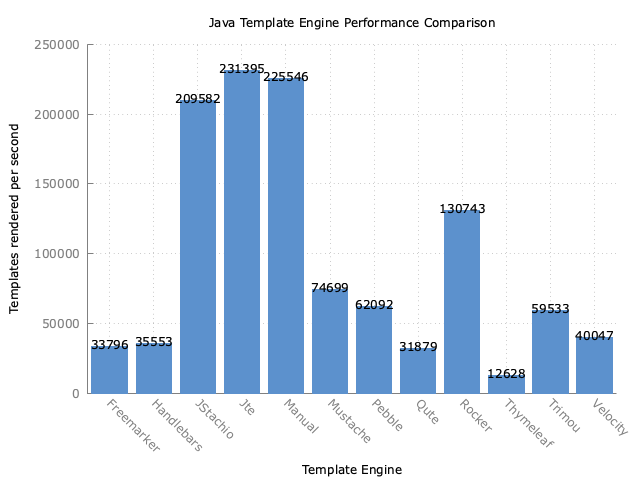
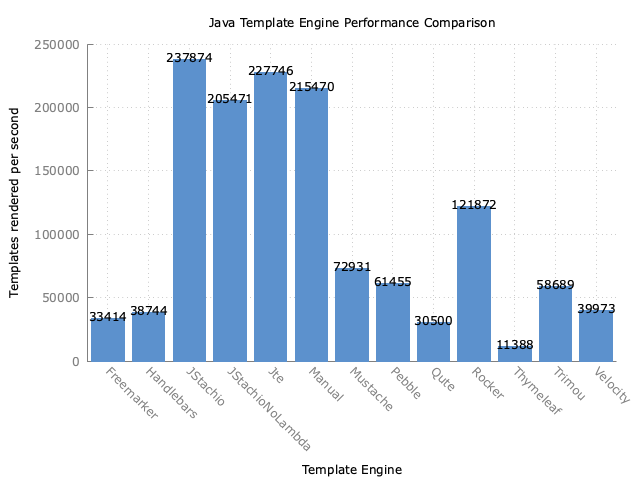
Update JStachio to use lambdas

diff --git a/src/main/resources/templates/stocks.jstachio.html b/src/main/resources/templates/stocks.jstachio.html
@@ -1,0 +1,85 @@
+{{! vim: set ts=4 sw=4 noexpandtab: }}
+<!DOCTYPE html>
+<html>
+<head>
+	<title>Stock Prices</title>
+	<meta http-equiv="Content-Type" content="text/html; charset=UTF-8" />
+	<meta http-equiv="Content-Style-Type" content="text/css" />
+	<meta http-equiv="Content-Script-Type" content="text/javascript" />
+	<link rel="shortcut icon" href="/images/favicon.ico" />
+	<link rel="stylesheet" type="text/css" href="/css/style.css" media="all" />
+	<script type="text/javascript" src="/js/util.js"></script>
+	<style type="text/css">
+		/*<![CDATA[*/
+		body {
+			color: #333333;
+			line-height: 150%;
+		}
+
+		thead {
+			font-weight: bold;
+			background-color: #CCCCCC;
+		}
+
+		.odd {
+			background-color: #FFCCCC;
+		}
+
+		.even {
+			background-color: #CCCCFF;
+		}
+
+		.minus {
+			color: #FF0000;
+		}
+
+		/*]]>*/
+	</style>
+
+</head>
+
+<body>
+
+	<h1>Stock Prices</h1>
+
+	<table>
+		<thead>
+			<tr>
+				<th>#</th>
+				<th>symbol</th>
+				<th>name</th>
+				<th>price</th>
+				<th>change</th>
+				<th>ratio</th>
+			</tr>
+		</thead>
+		<tbody>
+			{{#items}}
+			<tr class="{{#-index}}{{#isEven}}{{#.}}even{{/.}}{{^.}}odd{{/.}}{{/isEven}}{{/-index}}">
+				<td>{{-index}}</td>
+				<td>
+					<a href="/stocks/{{symbol}}">{{symbol}}</a>
+				</td>
+				<td>
+					<a href="{{url}}">{{name}}</a>
+				</td>
+				<td>
+					<strong>{{price}}</strong>
+				</td>
+				{{#isPositive}}
+				{{#.}}
+				<td>{{change}}</td>
+				<td>{{ratio}}</td>
+				{{/.}}
+				{{^.}}
+				<td class="minus">{{change}}</td>
+				<td class="minus">{{ratio}}</td>
+				{{/.}}
+				{{/isPositive}}
+			</tr>
+			{{/items}}
+		</tbody>
+	</table>
+
+</body>
+</html>

diff --git a/src/main/java/com/mitchellbosecke/benchmark/JStachio.java b/src/main/java/com/mitchellbosecke/benchmark/JStachio.java
@@ -1,8 +1,6 @@
 package com.mitchellbosecke.benchmark;
 
-import java.util.ArrayList;
 import java.util.List;
-
 
 import org.openjdk.jmh.annotations.Benchmark;
 import org.openjdk.jmh.annotations.Setup;
@@ -10,10 +8,9 @@ import org.openjdk.jmh.annotations.Setup;
 import com.mitchellbosecke.benchmark.model.Stock;
 
 import io.jstach.jstache.JStache;
-import io.jstach.jstachio.Appender;
-import io.jstach.jstachio.Formatter;
+import io.jstach.jstache.JStacheConfig;
+import io.jstach.jstache.JStacheLambda;
 import io.jstach.jstachio.escapers.PlainText;
-import io.jstach.jstachio.formatters.DefaultFormatter;
 
 public class JStachio extends BaseBenchmark {
 
@@ -22,76 +19,43 @@ public class JStachio extends BaseBenchmark {
     
     private List<Stock> items;
     private StocksModel model;
-    
-    Appender<StringBuilder> appender;
-    Appender<Appendable> escaper;
-    Formatter formatter;
+    private JStachioStocksTemplate template;
     
     @Setup
     public void setup() {
         items = Stock.dummyItems();
-        List<StockView> vs = new ArrayList<>();
-        for (int i = 0; i < items.size(); i++) {
-            int j = i + 1;
-            StockView v = new StockView(j, j == 1, j == items.size(), items.get(i));
-            vs.add(v);
-        }
-        
-        appender = Appender.stringAppender();
-        escaper = PlainText.provider();
-        formatter = DefaultFormatter.provider();
-        
-        model = new StocksModel(vs);
+        model = new StocksModel(items);
+        template = JStachioStocksTemplate.of();
     }
 
     @Benchmark
     public String benchmark() {
         StringBuilder sb = buffer.get();
         sb.setLength(0);
-
-        try {
-           StocksModelRenderer.render(model, sb, formatter, escaper, appender);
-        } catch (Exception e) {
-            e.printStackTrace();
-        }
-        return sb.toString();
-
+        return template.execute(model, sb).toString();
     }
     
-    @JStache(path = "templates/stocks.mustache.html")
+    @JStache(path = "templates/stocks.jstachio.html", 
+            name="JStachioStocksTemplate")
+    @JStacheConfig(contentType=PlainText.class)
     public static class StocksModel {
 
-        public final List<StockView> items;
+        public final List<Stock> items;
 
-        public StocksModel(List<StockView> items) {
-            super();
+        public StocksModel(List<Stock> items) {
             this.items = items;
         }
-
-    }
-
-    static class StockView {
-
-        public final int index;
-
-        public final boolean first;
-
-        public final boolean last;
-
-        public final Stock value;
-
-        public final String negativeClass;
-
-        public final String rowClass;
-
-        public StockView(int index, boolean first, boolean last, Stock value) {
-            this.index = index;
-            this.first = first;
-            this.last = last;
-            this.value = value;
-            this.negativeClass = value.getChange() > 0 ? "" : "class=\"minus\"";
-            this.rowClass = index % 2 == 0 ? "even" : "odd";
+        
+        @JStacheLambda
+        public boolean isPositive(Stock stock) {
+            return stock.getChange() > 0;
         }
+        
+        @JStacheLambda
+        public boolean isEven(int index) {
+            return index % 2 == 0;
+        }
+
     }
 
 }

diff --git a/src/main/java/com/mitchellbosecke/benchmark/JStachioNoLambda.java b/src/main/java/com/mitchellbosecke/benchmark/JStachioNoLambda.java
@@ -1,0 +1,81 @@
+package com.mitchellbosecke.benchmark;
+
+import java.util.ArrayList;
+import java.util.List;
+
+import org.openjdk.jmh.annotations.Benchmark;
+import org.openjdk.jmh.annotations.Setup;
+
+import com.mitchellbosecke.benchmark.model.Stock;
+
+import io.jstach.jstache.JStache;
+import io.jstach.jstache.JStacheConfig;
+import io.jstach.jstachio.escapers.PlainText;
+
+public class JStachioNoLambda extends BaseBenchmark {
+
+    // Let us cheat like rocker and jte
+    private static final ThreadLocal<StringBuilder> buffer = ThreadLocal.withInitial(() -> new StringBuilder(1024 * 8));
+    
+    private List<Stock> items;
+    private StocksModel model;
+    private JStachioNoLambdaStocksTemplate template;
+
+    @Setup
+    public void setup() {
+        items = Stock.dummyItems();
+        List<StockView> vs = new ArrayList<>();
+        for (int i = 0; i < items.size(); i++) {
+            int j = i + 1;
+            StockView v = new StockView(j, j == 1, j == items.size(), items.get(i));
+            vs.add(v);
+        }
+        model = new StocksModel(vs);
+        template = JStachioNoLambdaStocksTemplate.of();
+    }
+
+    @Benchmark
+    public String benchmark() {
+        StringBuilder sb = buffer.get();
+        sb.setLength(0);
+        return template.execute(model, sb).toString();
+    }
+    
+    @JStache(name = "JStachioNoLambdaStocksTemplate", path = "templates/stocks.mustache.html")
+    @JStacheConfig(contentType=PlainText.class)
+    public static class StocksModel {
+
+        public final List<StockView> items;
+
+        public StocksModel(List<StockView> items) {
+            super();
+            this.items = items;
+        }
+
+    }
+
+    static class StockView {
+
+        public final int index;
+
+        public final boolean first;
+
+        public final boolean last;
+
+        public final Stock value;
+
+        public final String negativeClass;
+
+        public final String rowClass;
+
+        public StockView(int index, boolean first, boolean last, Stock value) {
+            this.index = index;
+            this.first = first;
+            this.last = last;
+            this.value = value;
+            this.negativeClass = value.getChange() > 0 ? "" : "class=\"minus\"";
+            this.rowClass = index % 2 == 0 ? "even" : "odd";
+        }
+    }
+
+}

diff --git a/src/main/java/com/mitchellbosecke/benchmark/ManualTemplate.java b/src/main/java/com/mitchellbosecke/benchmark/ManualTemplate.java
@@ -4,7 +4,7 @@ import com.mitchellbosecke.benchmark.Manual.MyFormatter;
 
 public final class ManualTemplate {
 	
-	public static void render(com.mitchellbosecke.benchmark.JStachio.StocksModel data
+	public static void render(com.mitchellbosecke.benchmark.JStachioNoLambda.StocksModel data
 			, MyFormatter formatter
 			) throws java.io.IOException {
 
@@ -67,8 +67,8 @@ public final class ManualTemplate {
 
 			// start SECTION. name: items, template: templates/stocks.mustache.html
 			/* RenderingContext: class io.jstach.apt.context.DeclaredTypeRenderingContext */
-			/* TypeMirror: com.mitchellbosecke.benchmark.JStachio.StockView */
-			for (com.mitchellbosecke.benchmark.JStachio.StockView element: data.items) {
+			/* TypeMirror: com.mitchellbosecke.benchmark.JStachioNoLambda.StockView */
+			for (com.mitchellbosecke.benchmark.JStachioNoLambda.StockView element: data.items) {
 
 			    var value = element.value;
 			    

diff --git a/src/test/java/com/mitchellbosecke/benchmark/ExpectedOutputTest.java b/src/test/java/com/mitchellbosecke/benchmark/ExpectedOutputTest.java
@@ -61,7 +61,14 @@ public class ExpectedOutputTest {
     }
     
     @Test
-    public void testJstachioOutput() throws IOException {
+    public void testJstachioMustacheOutput() throws IOException {
+        JStachioNoLambda jstachio = new JStachioNoLambda();
+        jstachio.setup();
+        assertOutput(jstachio.benchmark());
+    }
+    
+    @Test
+    public void testJstachio() throws IOException {
         JStachio jstachio = new JStachio();
         jstachio.setup();
         assertOutput(jstachio.benchmark());

diff --git a/src/main/java/com/mitchellbosecke/benchmark/Manual.java b/src/main/java/com/mitchellbosecke/benchmark/Manual.java
@@ -6,8 +6,8 @@ import java.util.List;
 import org.openjdk.jmh.annotations.Benchmark;
 import org.openjdk.jmh.annotations.Setup;
 
-import com.mitchellbosecke.benchmark.JStachio.StockView;
-import com.mitchellbosecke.benchmark.JStachio.StocksModel;
+import com.mitchellbosecke.benchmark.JStachioNoLambda.StockView;
+import com.mitchellbosecke.benchmark.JStachioNoLambda.StocksModel;
 import com.mitchellbosecke.benchmark.model.Stock;
 
 public class Manual extends BaseBenchmark {
